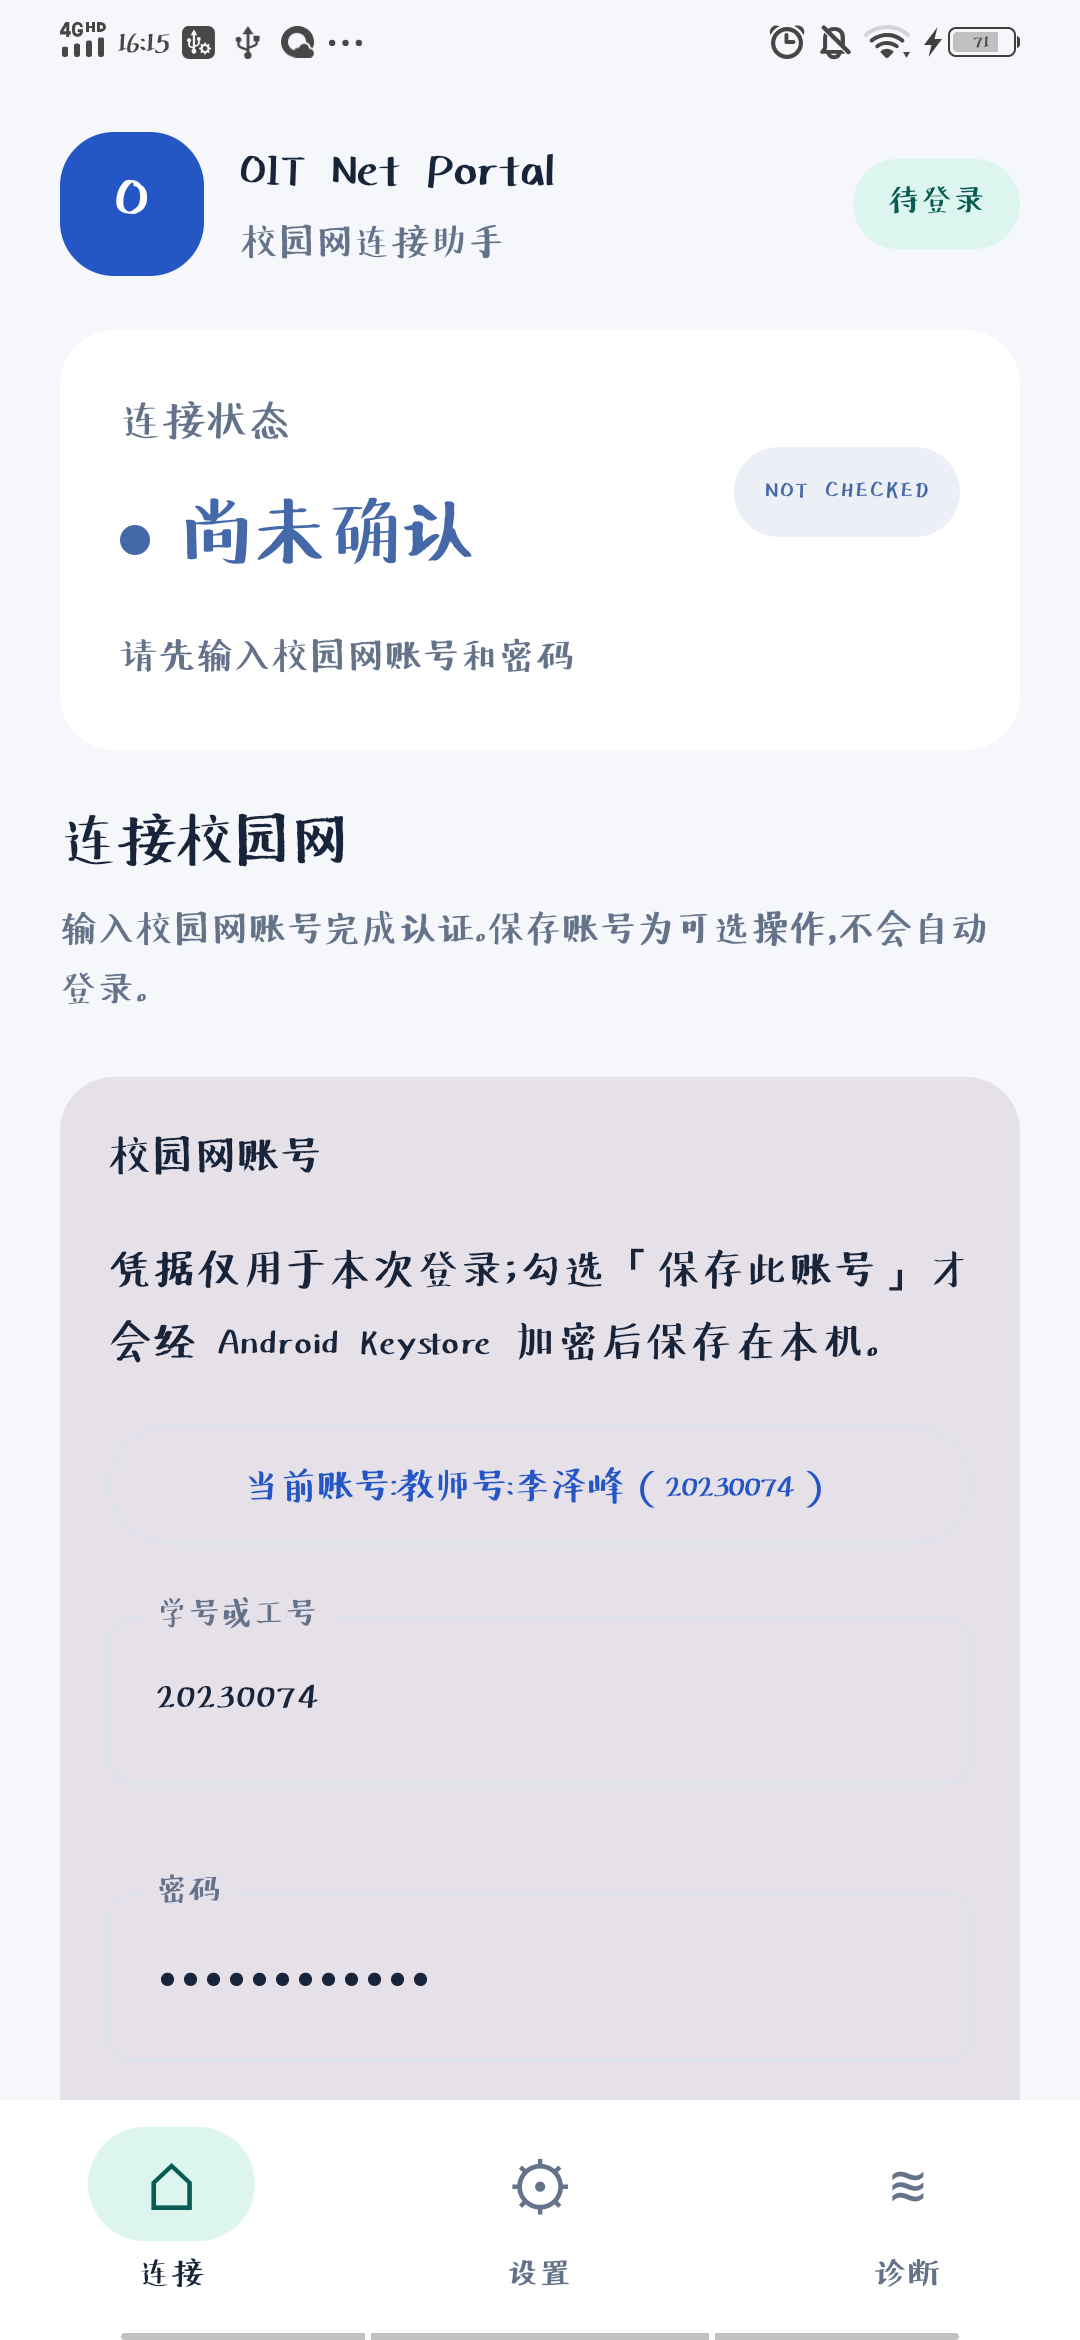
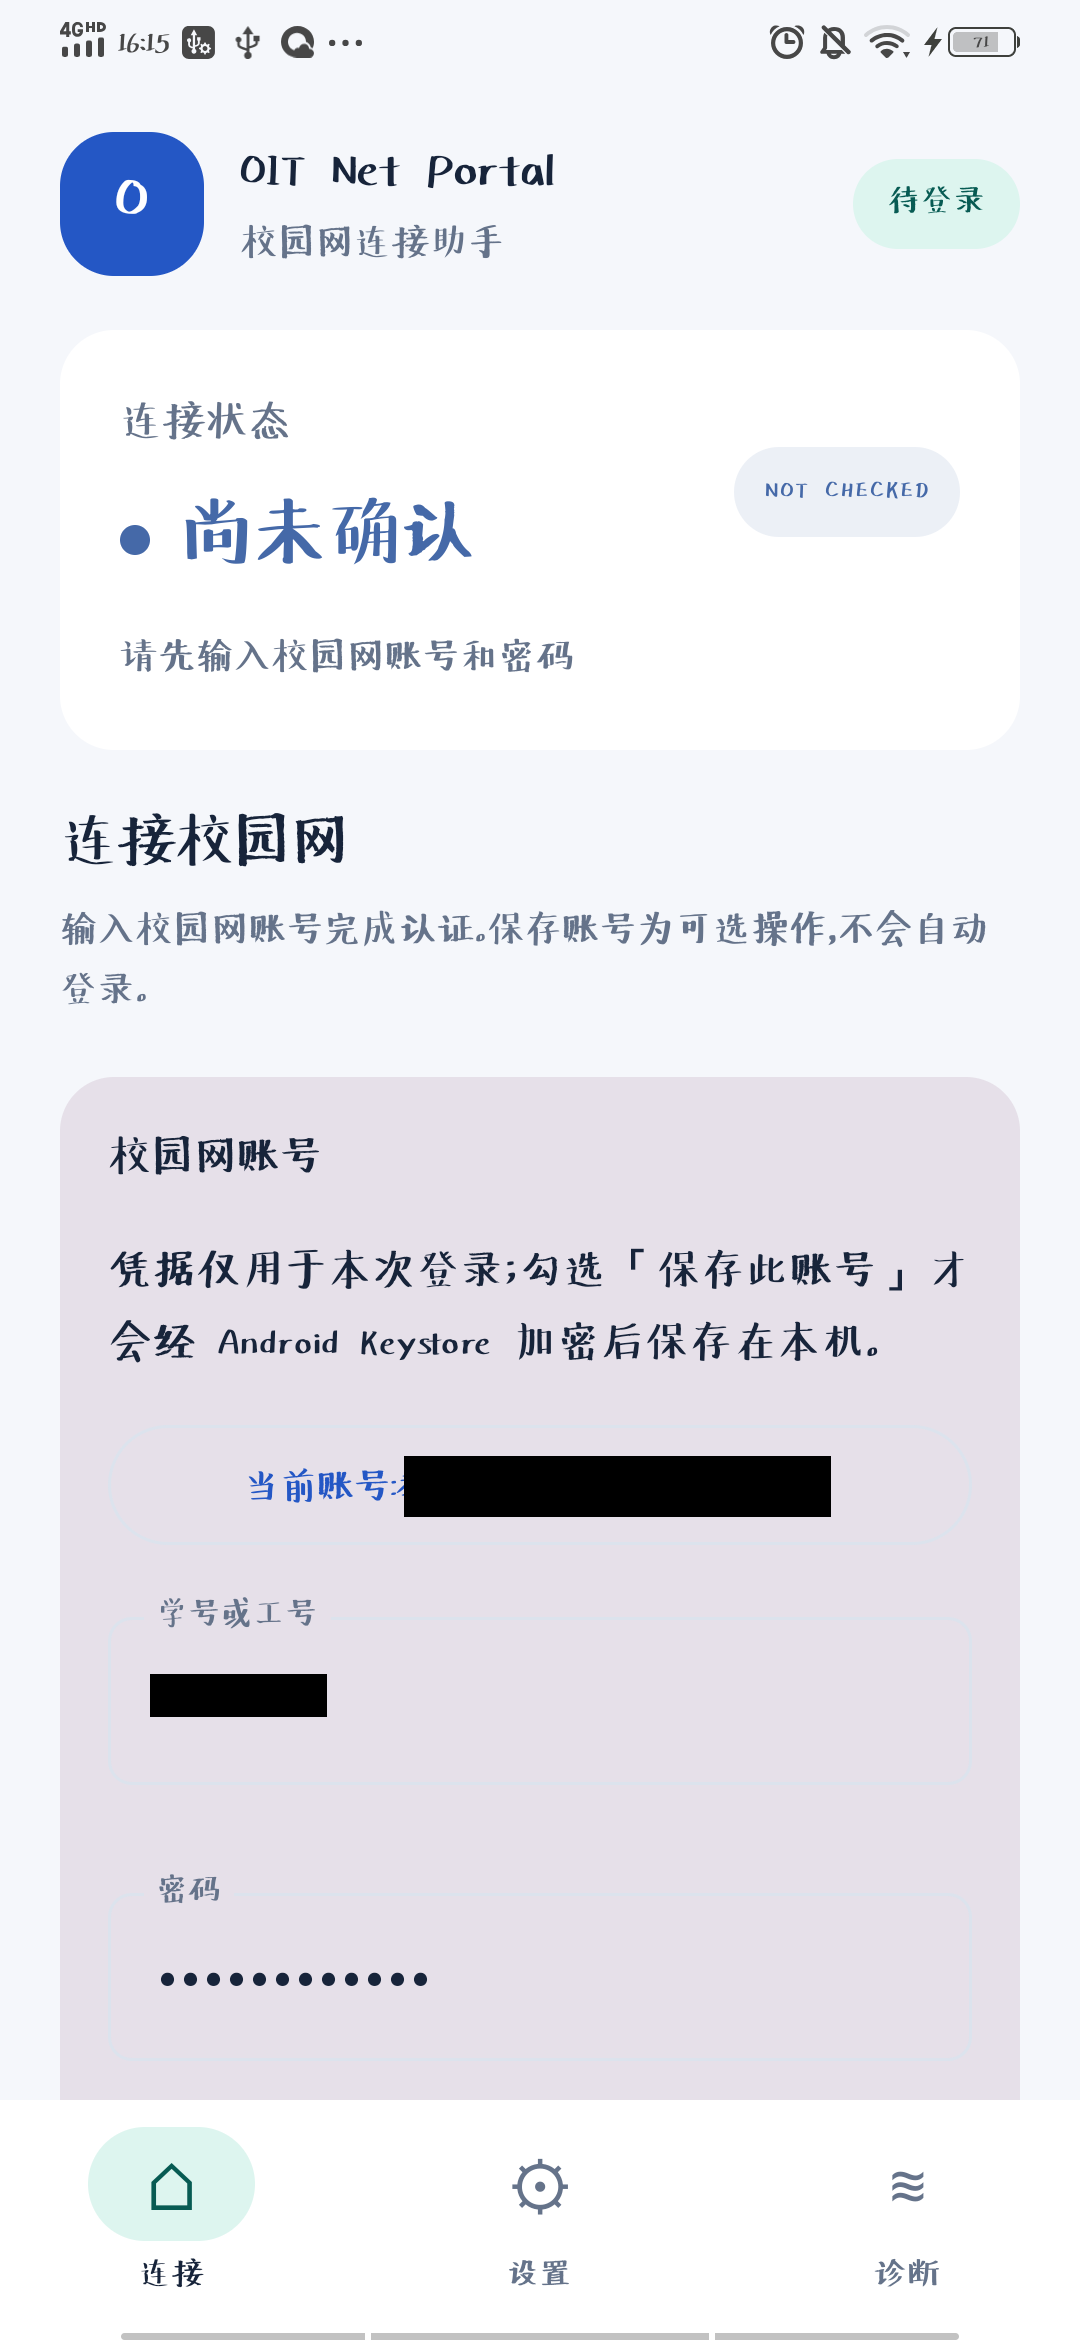
chore(validation): 遮盖 vivo 验收截图里的姓名与工号（已公开的那批）
推送前复查全部三个验收目录时发现的**既有公开暴露**：
2026-10-27-background-reconnect/00_screen_state.png 已在公开仓库，
其中「当前账号:教师号:XXX（20230074）」直接可见**真实姓名 + 工号**，
输入框里还有一份工号。比学号更敏感（姓名 + 工号配对）。

- 2026-10-27-background-reconnect/00_screen_state.png（已公开）
- 2026-10-31-android-followup/01-connect.png、06-final-connect.png
  各遮盖 2 处（蓝色账号行整段 + 输入框工号），3 张图共 6 处
- 复检：整串工号 / 学号模板在三个目录、多尺度下均 0 命中；
  仓库文本文件（md/py/kt/toml/json）中也无账号或姓名残留
- 两份报告补隐私处理说明

Changed region(s): [[0.3667, 0.6239, 0.7944, 0.6551], [0.1222, 0.7175, 0.3056, 0.7487]]

diff --git a/android/validation/2026-10-27-background-reconnect/report.md b/android/validation/2026-10-27-background-reconnect/report.md
@@ -54,3 +54,8 @@
 | `E_offline_recovery_timeline.log` | 断网→恢复全程状态采样（prefs/dumpsys/SSID） |
 | `G1_after_end_session.png` | 结束会话后 |
 | `H1_recents.png` / `H2_swipe_away_watch.log` | 划卡操作与 70s 监控（进程/服务未复活） |
+
+> ⚠ **隐私处理（2026-11-01）**：本仓库是**公开仓库**。`00_screen_state.png` 原先直接可见
+> 账号类型、**真实姓名**与**工号**，现已用黑块遮盖（蓝色账号行整段 + 输入框里的工号）。
+> 「当前账号:」「学号或工号」等标签与界面结构保留，不影响证据效力。
+> **git 历史里仍保留着未遮盖的原始图片** —— 彻底清除需 `git filter-repo` 重写历史并强推。

diff --git a/android/validation/2026-10-31-android-followup/report.md b/android/validation/2026-10-31-android-followup/report.md
@@ -197,3 +197,10 @@ Android testDebugUnitTest                53 例（新增 5 例：P1 三例 + P2 
 Android assembleDebug / lintDebug        BUILD SUCCESSFUL
 真机                                     vivo V1936A / Android 9，见上文各项
 ```
+
+---
+
+> ⚠ **隐私处理（2026-11-01）**：本仓库是**公开仓库**。
+> `01-connect.png` / `06-final-connect.png` 原先直接可见账号类型、**真实姓名**与**工号**，
+> 现已用黑块遮盖（蓝色账号行整段 + 输入框里的工号），标签与界面结构保留。
+> **git 历史里仍保留着未遮盖的原始图片** —— 彻底清除需 `git filter-repo` 重写历史并强推。
